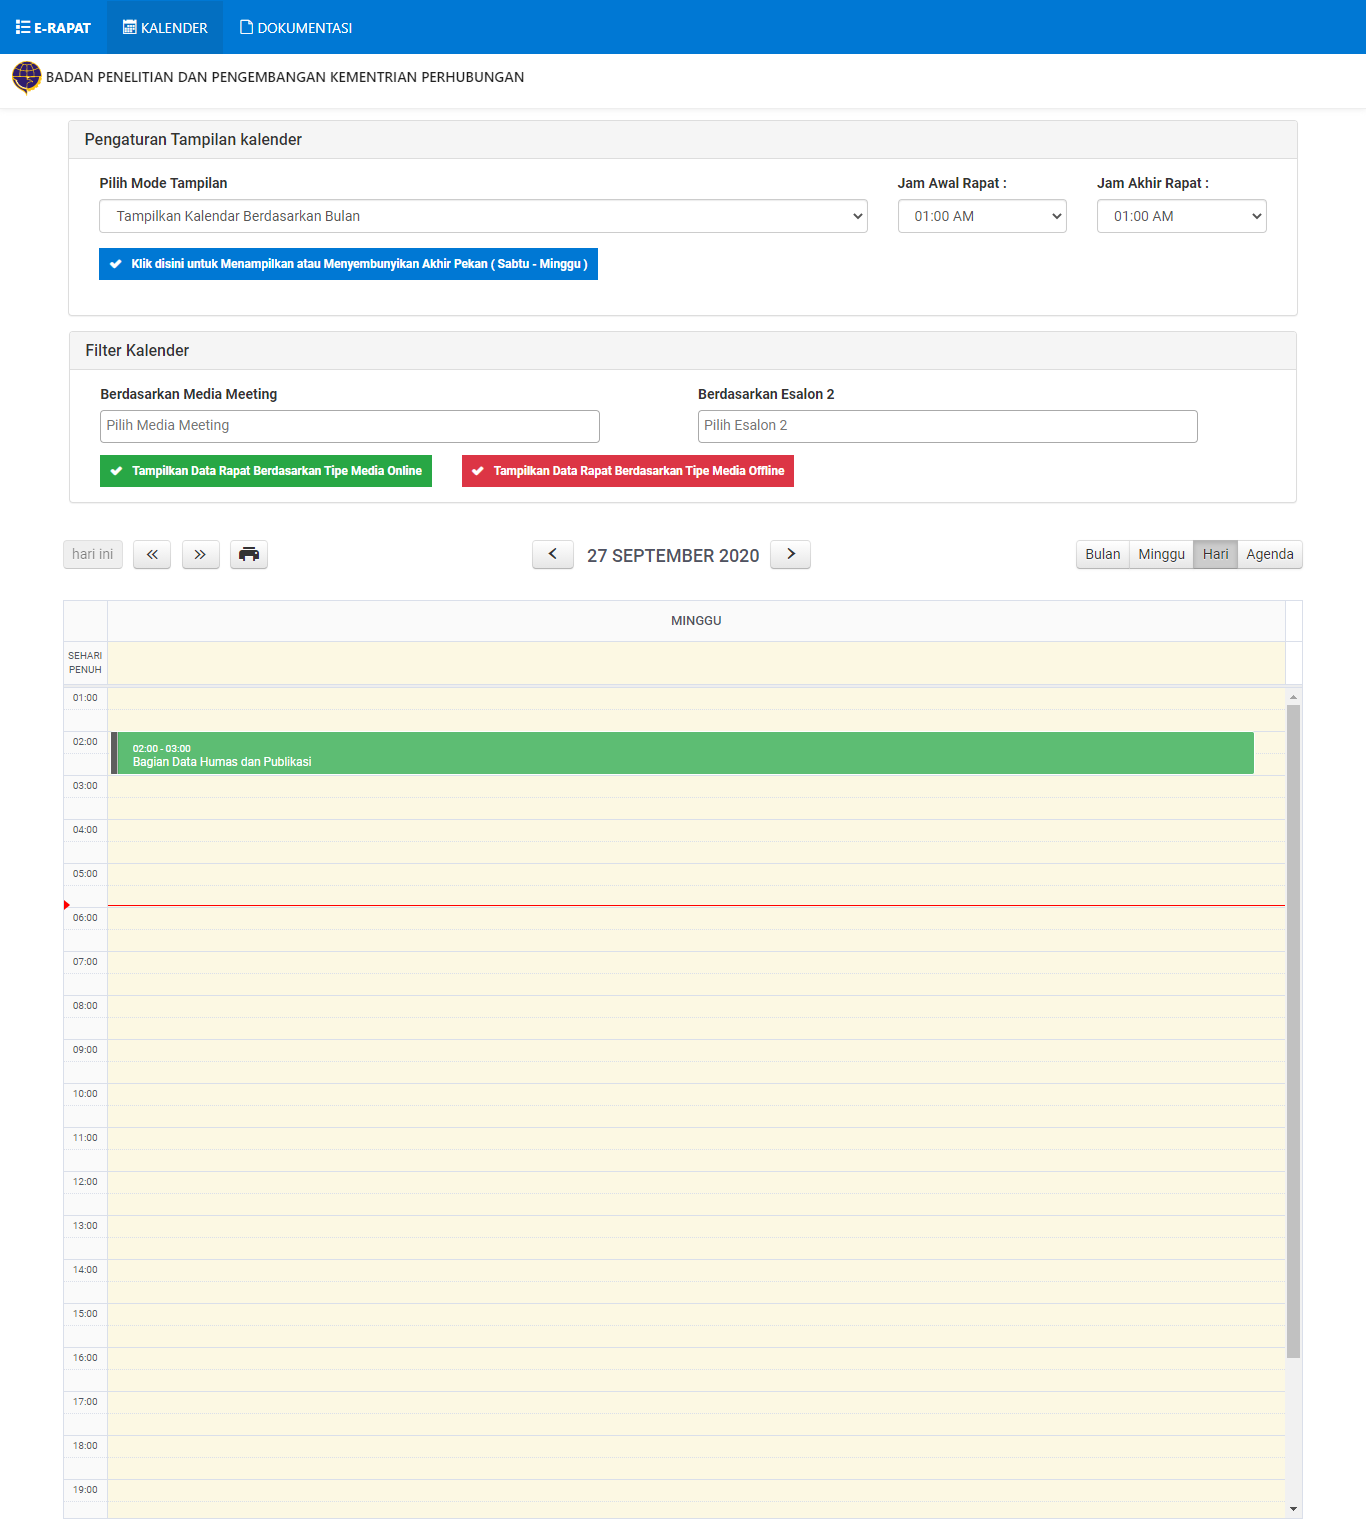
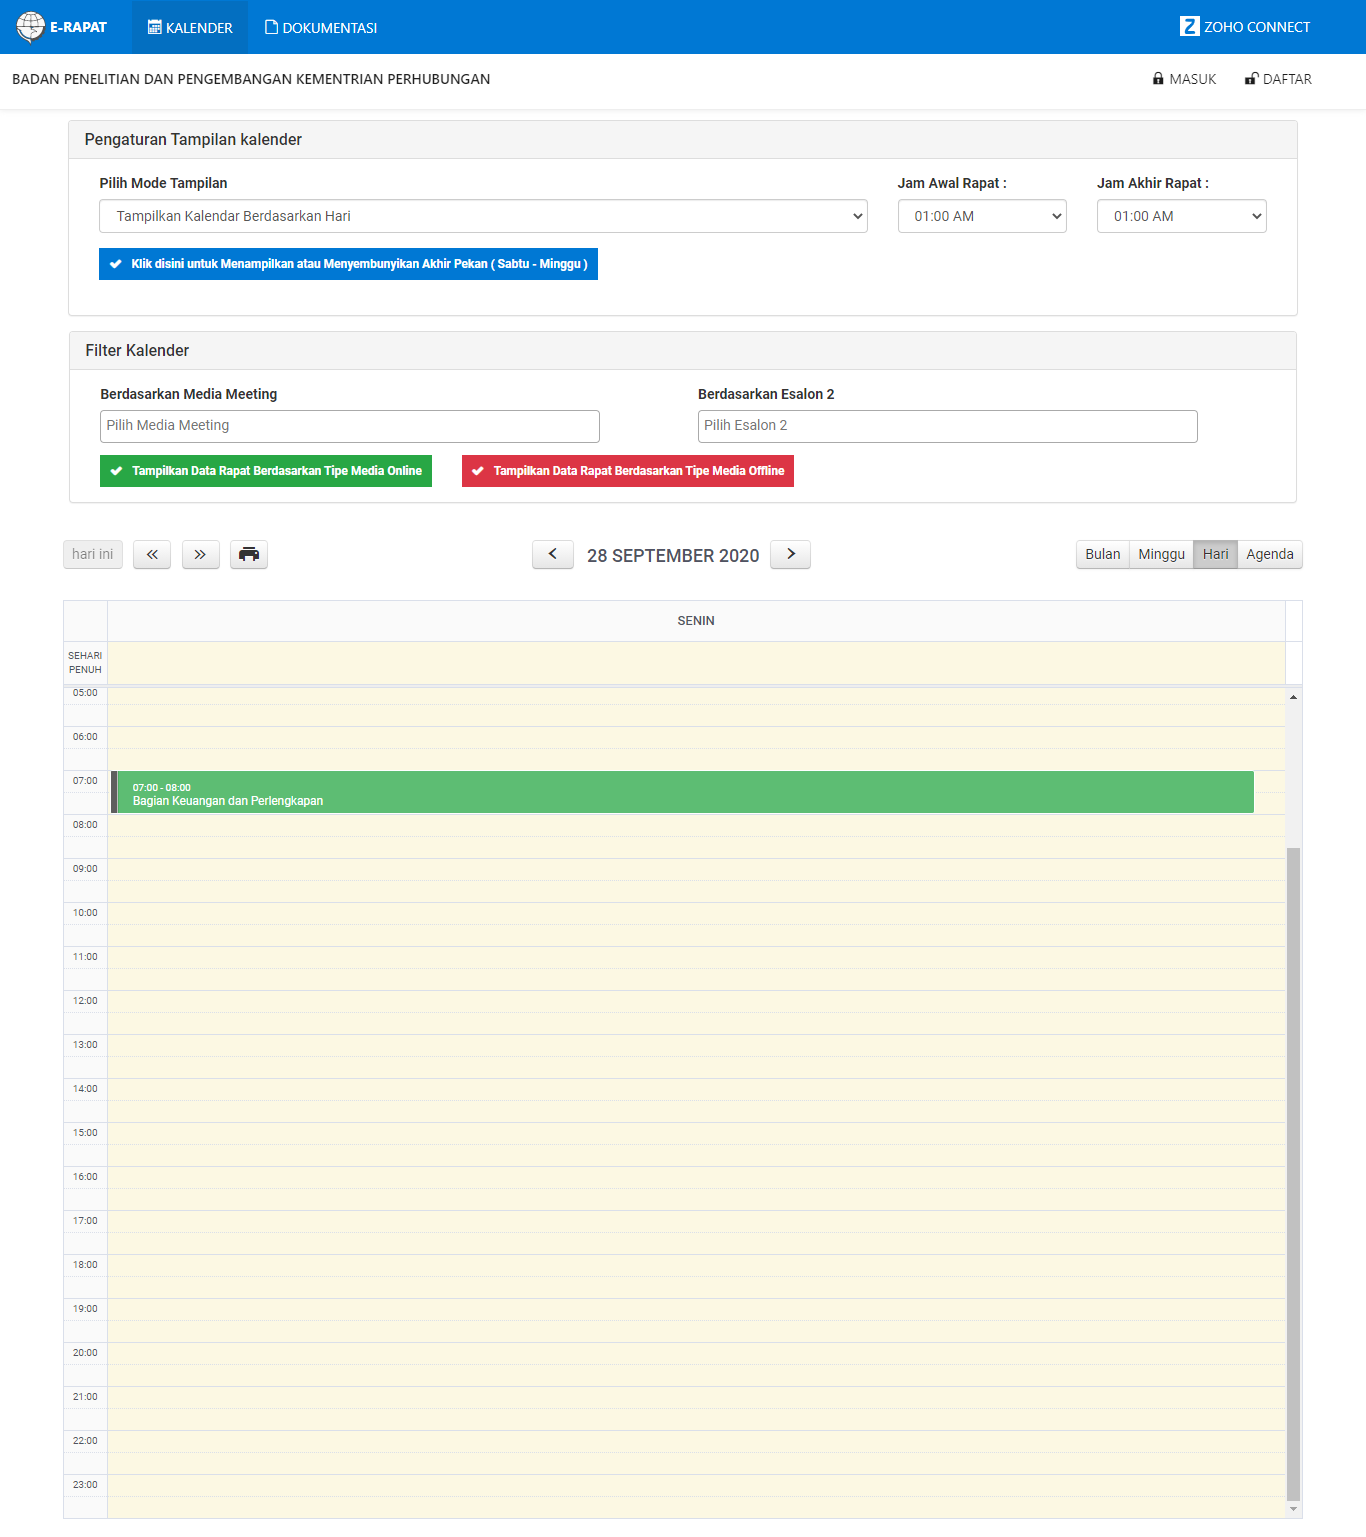
FRONTEND - Refactor Codebase-3

diff --git a/public/assets/locals/css/custom-metro.css b/public/assets/locals/css/custom-metro.css
@@ -64,6 +64,18 @@ body {
   transform-origin: center center 1px;
 }
 
+.image_svg_thumb {
+  width: 30px;
+  filter: invert(1) sepia(1) saturate(0);
+}
+
+.aktif {
+  background-color: #0078d4;
+  color: #ffffff !important;
+  outline: none;
+  border-radius: 0;
+}
+
 .h-menu {
   list-style: none inside;
   display: block;
@@ -84,4 +96,5 @@ body {
 .font-h5 {
   font-weight: 500;
   font-size: 14px;
+  padding: 10px 0;
 }

diff --git a/app/Helpers/navbar_helper.php b/app/Helpers/navbar_helper.php
@@ -4,13 +4,16 @@ function navbar_before_login($nav_title)
 { ?>
     <div data-role="appbar" data-expand-point="md">
         <a href="<?= base_url(); ?>" class="brand no-hover">
-            <span style="width: 75px;">
-                <strong><span class="icon mif-list"></span> E-RAPAT</strong>
+            <span style="width: 100px;">
+                <img src="<?= get_perhub_svg(); ?>" alt="Logo" class="image_svg_thumb"><strong> E-RAPAT</strong>
             </span>
         </a>
         <ul class="app-bar-menu">
             <?php if ($nav_title == 'calendar') : ?>
                 <li><a href="<?= base_url(); ?>" class="text-upper active text-bolds"><span class="icon mif-calendar"></span> kalender</a></li>
+                <li><a href="<?= base_url('documentation'); ?>" class=" text-upper"><span class="icon mif-file-empty"></span> dokumentasi</a></li>
+            <?php elseif ($nav_title == 'login' || $nav_title == 'register') : ?>
+                <li><a href="<?= base_url(); ?>" class="text-upper text-bolds"><span class="icon mif-calendar"></span> kalender</a></li>
                 <li><a href="<?= base_url('documentation'); ?>" class=" text-upper"><span class="icon mif-file-empty"></span> dokumentasi</a></li>
             <?php else : ?>
                 <li><a href="<?= base_url(); ?>" class="text-upper"><span class="icon mif-calendar"></span> kalender</a></li>
@@ -18,12 +21,25 @@ function navbar_before_login($nav_title)
             <?php endif; ?>
         </ul>
         <div class="app-bar-container ml-auto d-none d-flex-md">
-            <a href="<?= base_url('auth') ?>" class="button button-outline-transparent text-upper" style="margin-right: 30px;"><span class="icon mif-fingerprint"></span> MASUK</a>
+            <a href="https://accounts.zoho.com/signin?servicename=ZohoForms&signupurl=https://www.zoho.com/forms/signup.html&serviceurl=https://forms.zoho.com" class="text-upper text-bolds" style="margin-right: 56px; vertical-align: sub;" target="_blank"><img src="<?= get_zoho_svg(); ?>" alt="Logo" class="image_svg_thumb" style="width: 20px;vertical-align: sub;"> ZOHO Connect</a>
         </div>
     </div>
 
-    <div class="d-flex flex-column flex-md-row align-items-center p-3 px-md-4 shadow-sm fixed-top app-flatbar">
-        <h5 class="my-0 mr-md-auto font-weight-normal font-h5"><img src="<?= base_url('assets/locals/img/transport.svg'); ?>" alt="" style="width:30px"> BADAN PENELITIAN DAN PENGEMBANGAN KEMENTRIAN PERHUBUNGAN</h5>
+    <div class="d-flex flex-row align-items-center p-3 px-md-4 shadow-sm fixed-top app-flatbar">
+        <h5 class="my-0 mr-md-auto font-weight-normal font-h5">BADAN PENELITIAN DAN PENGEMBANGAN KEMENTRIAN PERHUBUNGAN</h5>
+
+        <div class="app-bar-container ml-auto d-none d-flex-md">
+            <?php if ($nav_title == 'login') : ?>
+                <a href="<?= base_url('auth') ?>" class="button button-outline-transparent text-upper aktif" style="margin-right: 5px;"><span class="icon mif-lock"></span> MASUK</a>
+                <a href="<?= base_url('auth/register') ?>" class="button button-outline-transparent text-upper" style="margin-right: 30px;"><span class="icon mif-unlock"></span> DAFTAR</a>
+            <?php elseif ($nav_title == 'register') : ?>
+                <a href="<?= base_url('auth') ?>" class="button button-outline-transparent text-upper " style="margin-right: 5px;"><span class="icon mif-lock"></span> MASUK</a>
+                <a href="<?= base_url('auth/register') ?>" class="button button-outline-transparent text-upper aktif" style="margin-right: 30px;"><span class="icon mif-unlock"></span> DAFTAR</a>
+            <?php else : ?>
+                <a href="<?= base_url('auth') ?>" class="button button-outline-transparent text-upper" style="margin-right: 5px;"><span class="icon mif-lock"></span> MASUK</a>
+                <a href="<?= base_url('auth/register') ?>" class="button button-outline-transparent text-upper" style="margin-right: 30px;"><span class="icon mif-unlock"></span> DAFTAR</a>
+            <?php endif; ?>
+        </div>
     </div>
 <?php
 }
@@ -72,4 +88,14 @@ function navbar_after_login()
 <?php
 }
 
+function get_perhub_svg()
+{
[1 lines of base64/hex data omitted]
+}
+
+
+function get_zoho_svg()
+{
[1 lines of base64/hex data omitted]
+}
 ?>

diff --git a/app/Views/cpanel/auth/view_login.php b/app/Views/cpanel/auth/view_login.php
@@ -1,0 +1,46 @@
+<?php
+
+$this->extend("layouts/layout_main");
+$this->section("contents");
+
+navbar_before_login($nav_title, $navigation_title);
+?>
+
+<div class="container">
+    <!-- start content here -->
+    <div class="grid ">
+        <div class="row d-flex flex-column flex-justify-center h-vh-50 mt-10">
+            <div class="cell-5 mx-auto block-shadow">
+                <h1><small><span class="icon mif-lock"></span> CPANEL LOGIN</small></h1>
+                <hr class="thin" />
+                <form data-role="validator" method="POST" action="<?= base_url('auth/login') ?>">
+                    <div class="row mb-2">
+                        <div class="cell-sm-10">
+                            <input type="email" placeholder="Masukan Alamat Email" data-validate="required email" data-role="input" class="metro-input" autocomplete="off" autofocus>
+                            <span class="invalid_feedback">
+                                Alamat Email tidak boleh kosong atau Salah!
+                            </span>
+                        </div>
+                    </div>
+                    <div class="row mb-2">
+                        <div class="cell-sm-10">
+                            <input type="password" placeholder="Masukan Katasandi" data-validate="required" data-role="input" class="metro-input" autocomplete="off">
+                            <span class="invalid_feedback">
+                                Katasandi tidak boleh kosong atau Salah!
+                            </span>
+                        </div>
+                    </div>
+                    <div class="row">
+                        <div class="cell">
+                            <button type="submit" class="button primary drop-shadow"><span class="icon mif-fingerprint"></span> Sign in</button>
+                        </div>
+                    </div>
+                </form>
+            </div>
+        </div>
+    </div>
+    <!-- end content here -->
+</div>
+
+<?php
+$this->endSection();

diff --git a/app/Views/cpanel/auth/view_register.php b/app/Views/cpanel/auth/view_register.php
@@ -3,15 +3,15 @@
 $this->extend("layouts/layout_main");
 $this->section("contents");
 
-navbar_before_login($nav_title);
+navbar_before_login($nav_title, $navigation_title);
 ?>
 
 <div class="container">
     <!-- start content here -->
     <div class="grid ">
         <div class="row d-flex flex-column flex-justify-center h-vh-50 mt-10">
-            <div class="cell-5 offset-4 block-shadow">
-                <h1><small>CPANEL LOGIN</small></h1>
+            <div class="cell-5 mx-auto block-shadow">
+                <h1><small><span class="icon mif-unlock"></span> REGISTRASI AKUN</small></h1>
                 <hr class="thin" />
                 <form data-role="validator" method="POST" action="<?= base_url('auth/login') ?>">
                     <div class="row mb-2">

diff --git a/app/Controllers/Auth.php b/app/Controllers/Auth.php
@@ -10,15 +10,16 @@ class Auth extends Controller
     public function index()
     {
         helper(['navbar']);
-        $data = ['page_title' => 'E-RAPAT - Authentication'];
+        $data = ['page_title' => 'E-RAPAT - Login', 'nav_title' => 'login'];
 
-        return view('view_login', $data);
+        return view('cpanel/auth/view_login', $data);
     }
 
-    public function login()
+    public function register()
     {
-        $data = ['messages' => 'Selamat datang'];
-        print_r($data);
-        die;
+        helper(['navbar']);
+        $data = ['page_title' => 'E-RAPAT - Register', 'nav_title' => 'register'];
+
+        return view('cpanel/auth/view_register', $data);
     }
 }

diff --git a/app/Views/layouts/layout_main.php b/app/Views/layouts/layout_main.php
@@ -4,6 +4,7 @@
 <head>
     <!-- Required meta tags -->
     <meta charset="utf-8">
+    <meta http-equiv="X-UA-Compatible" content="IE=edge" />
     <meta name="viewport" content="width=device-width, initial-scale=1, shrink-to-fit=no">
     <meta name="description" content="">
     <meta name="author" content="Ivandi Djoh Gah">

diff --git a/README.md b/README.md
@@ -22,3 +22,4 @@ Here is the screenshoot of the application.
 ![Calendar Week](captured/calendar_week.png "This is the Screenshoot")
 ![Create Form Absen](captured/calendar_day.png "This is the Screenshoot")
 ![View Meeting](captured/calendar_list.png "This is the Screenshoot")
+![View Login](captured/login.png "This is the Screenshoot")
